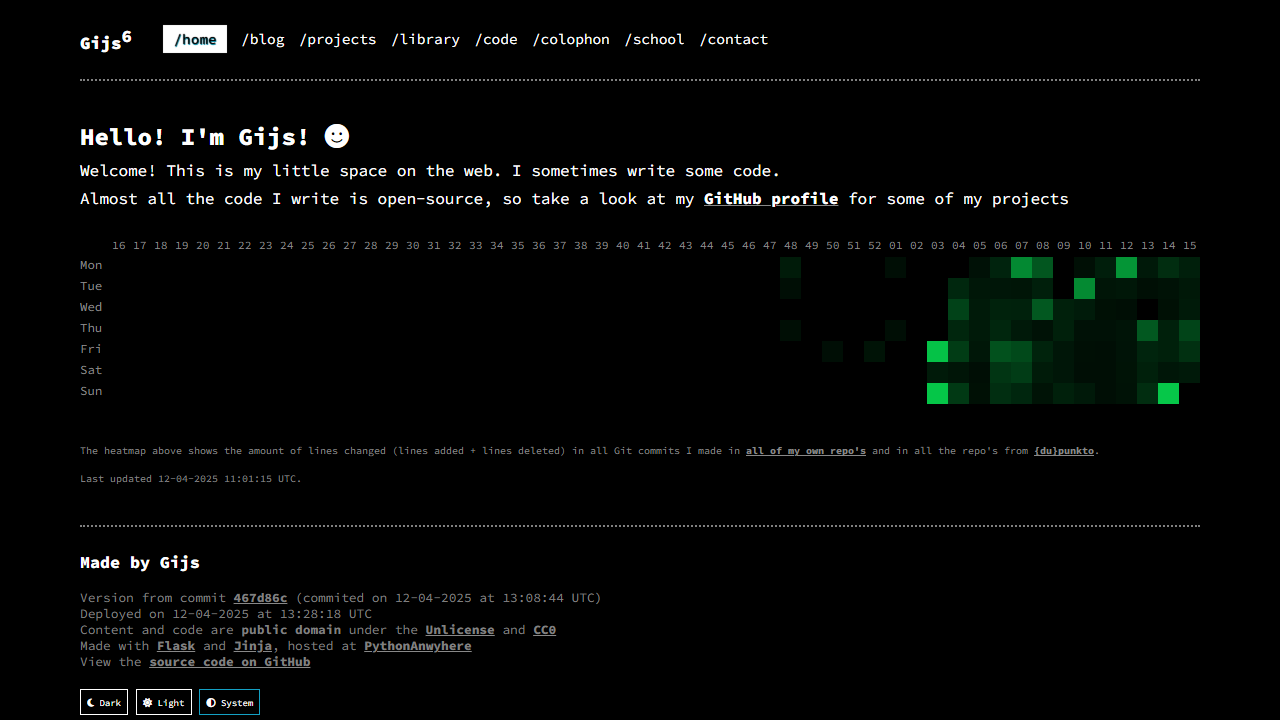
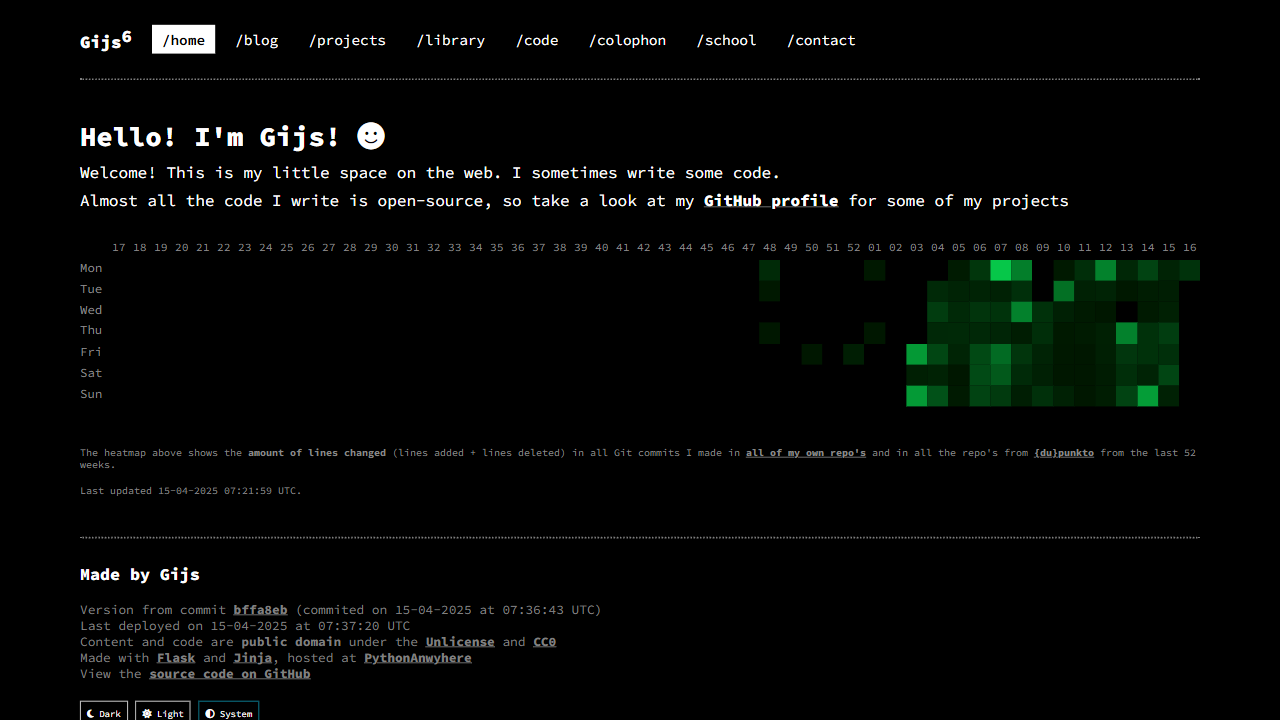
Stuff

diff --git a/templates/base.html b/templates/base.html
@@ -13,7 +13,7 @@
                 const lightButton = document.getElementById("theme-light");
                 const systemButton = document.getElementById("theme-system");
         
-                const currentTheme = localStorage.getItem("theme") || "system";
+                const currentTheme = localStorage.getItem("theme") || "system"; // If there is a theme saved in the local storage, use it, else just use the system theme
                 document.documentElement.setAttribute("data-theme", currentTheme);
         
                 darkButton.addEventListener("click", () => {
@@ -48,17 +48,17 @@
             <a href="mailto:gijs6@dupunkto.org" class="menu-item">/contact</a>
         </header>
 
+
         <main>
             {% block content %}{% endblock %}
         </main>
-
 
 
         <footer>
             <p id="madeby">Made by Gijs</p>
             {% block extra_footer %}{% endblock %}
             <p>Version from commit <a href="https://github.com/Gijs6/gijs6.nl/commit/{{ latest_commit_hash_long }}">{{ latest_commit_hash }}</a> (commited on {{ latest_commit_date }} UTC)</p>
-            <p>Deployed on {{ latest_deploy_date }} UTC</p>
+            <p>Last deployed on {{ latest_deploy_date }} UTC</p>
             <p>Content and code are <strong>public domain</strong> under the <a href="https://unlicense.org/" target="_blank">Unlicense</a> and <a href="https://creativecommons.org/publicdomain/zero/1.0/" target="_blank">CC0</a></p>
             <p>Made with <a href="https://github.com/pallets/flask" target="_blank">Flask</a> and <a href="https://github.com/pallets/jinja" target="_blank">Jinja</a>, hosted at <a href="https://eu.pythonanywhere.com/" target="_blank">PythonAnwyhere</a></p>
             <p>View the <a href="https://github.com/Gijs6/site" target="_blank">source code on GitHub</a></p>

diff --git a/static/base.css b/static/base.css
@@ -15,8 +15,6 @@
     color-scheme: light dark;
     --front: light-dark(black, white);
     --back: light-dark(white, black);
-
-    --blue: light-dark(#4988b5, #14a0c4);
 }
 
 @media (prefers-color-scheme: light) {
@@ -64,40 +62,31 @@ header {
     flex-direction: row;
     align-content: center;
     align-items: center;
-    gap: 1em;
+    gap: 10px;
     flex-wrap: wrap;
     font-size: .9em;
 }
 
 #logo {
-    margin-right: 1em;
+    margin-right: 10px;
     font-weight: 900;
     font-size: 1.2em;
-    transition: font-weight 300ms ease-in-out;
 }
 
 #logo sup {
     font-size: unset;
 }
 
-#logo:hover {
-    font-weight: 300
-}
-
 .menu-item {
     text-decoration: none;
-    padding: 5px 0;
+    padding: 5px 10px;
     font-weight: 400;
-    transition: 100ms padding ease;
 }
 
 .menu-item:hover, .menu-item.active {
     background: var(--front);
     color: var(--back);
-    filter: blur(.4px);
-    text-shadow: .5px .5px .5px var(--lightblue);
     font-weight: 600;
-    padding: 5px 10px;
 }
 
 main {
@@ -144,15 +133,15 @@ footer {
 }
 
 [data-theme="light"] #theme-light {
-    border-color: var(--blue);
+    border-color: var(--lightblue);
 }
 
 [data-theme="dark"] #theme-dark {
-    border-color: var(--blue);
+    border-color: var(--lightblue);
 }
 
 [data-theme="system"] #theme-system {
-    border-color: var(--blue);
+    border-color: var(--lightblue);
 }
 
 
@@ -178,7 +167,7 @@ a {
 }
 
 a:hover {
-    text-decoration-color: var(--blue);
+    text-decoration-color: var(--lightblue);
 }
 
 h1 {

diff --git a/templates/home.html b/templates/home.html
@@ -27,16 +27,14 @@
             <div class="extra-info week day" style="grid-area: 7 / 1 / 8 / 2">Sat</div>
             <div class="extra-info week day" style="grid-area: 8 / 1 / 9 / 2">Sun</div>
 
-
             {% for cell in graphdata %}
                 <div data-message="{{ cell.message }}" style="grid-area: {{ cell.grid_area }}; background: light-dark({{ cell.lightcolor }}, {{ cell.darkcolor }})" class="cell"></div>
             {% endfor %}
         </div>
     </div>
 
-    <div id="undergraph">
-        <p class="annotation">The heatmap above shows the amount of lines changed (lines added + lines deleted) in all Git commits I made in <a href="https://github.com/Gijs6?tab=repositories" target="_blank">all of my own repo's</a> and in all the repo's from <a href="https://git.dupunkto.org" target="_blank">{du}punkto</a>.</p>
+    <div id="under-the-graph">
+        <p class="annotation">The heatmap above shows the <strong>amount of lines changed</strong> (lines added + lines deleted) in all Git commits I made in <a href="https://github.com/Gijs6?tab=repositories" target="_blank">all of my own repo's</a> and in all the repo's from <a href="https://git.dupunkto.org" target="_blank">{du}punkto</a> from the last 52 weeks.</p>
         <p class="annotation">Last updated {{ last_updated }} UTC.</p>
-
     </div>
 {% endblock %}

diff --git a/blueprints/blog/static/blogpost.css b/blueprints/blog/static/blogpost.css
@@ -4,7 +4,7 @@ main * {
 }
 
 main a {
-  color: var(--blue);
+  color: var(--lightblue);
 }
 
 main {
@@ -15,7 +15,7 @@ main {
 #post-info {
   margin: 2em 0;
   padding: 0 0.5em;
-  border-left: 2px solid var(--blue);
+  border-left: 2px solid var(--lightblue);
   font-size: 0.9em;
 }
 
@@ -35,7 +35,7 @@ main blockquote {
   margin: 0;
   padding: 0 1em;
   opacity: 0.8;
-  border-left: 0.25em solid var(--blue);
+  border-left: 0.25em solid var(--lightblue);
 }
 
 main code {
@@ -85,5 +85,5 @@ main#index {
 }
 
 #back-to-blog i {
-  color: var(--blue);
+  color: var(--lightblue);
 }

diff --git a/static/home.css b/static/home.css
@@ -28,7 +28,6 @@
     aspect-ratio: 1 / 1;
 }
 
-
 .cell::after {
     content: attr(data-message);
     position: absolute;
@@ -50,7 +49,7 @@
     display: unset;
 }
 
-#undergraph {
+#under-the-graph {
     font-size: .9em;
     color: #888;
     display: flex;

diff --git a/README.md b/README.md
@@ -1,7 +1,7 @@
 # [Gijs6.nl](https://www.gijs6.nl)
 
-My own site. It doesn't really have a purpose, but it looks quite good!
+My own site. Built with [Flask](https://github.com/pallets/flask) and [Jinja](https://github.com/pallets/jinja).
 
-Built with [Flask](https://github.com/pallets/flask) and [Jinja](https://github.com/pallets/jinja).
+This repo includes my public site, my blog, my private api things and other things. And that works very great with blueprints (Flask is just so amazing).
 
 Have fun looking around :D
